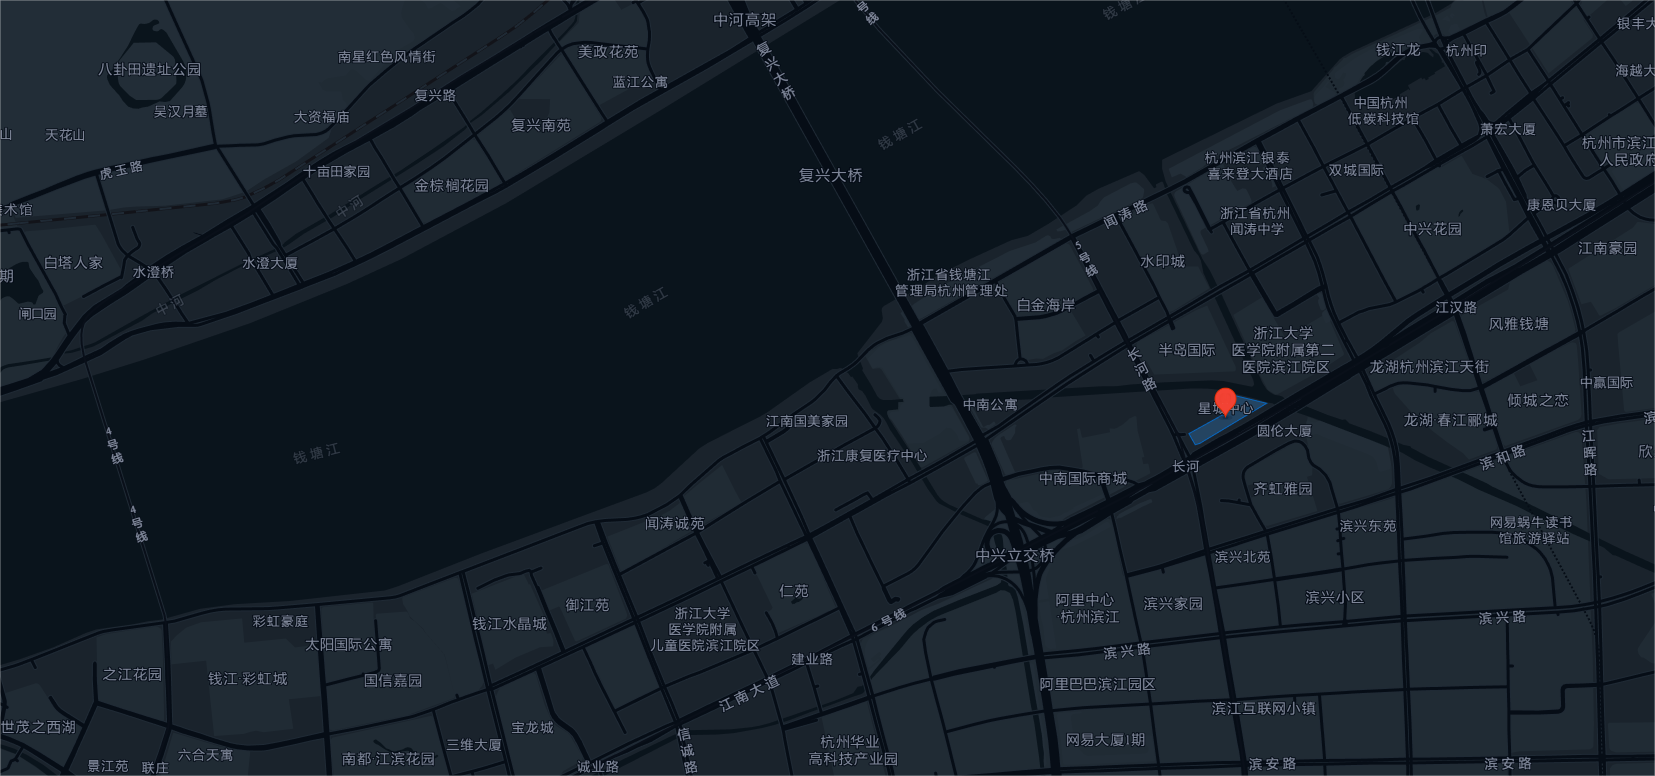
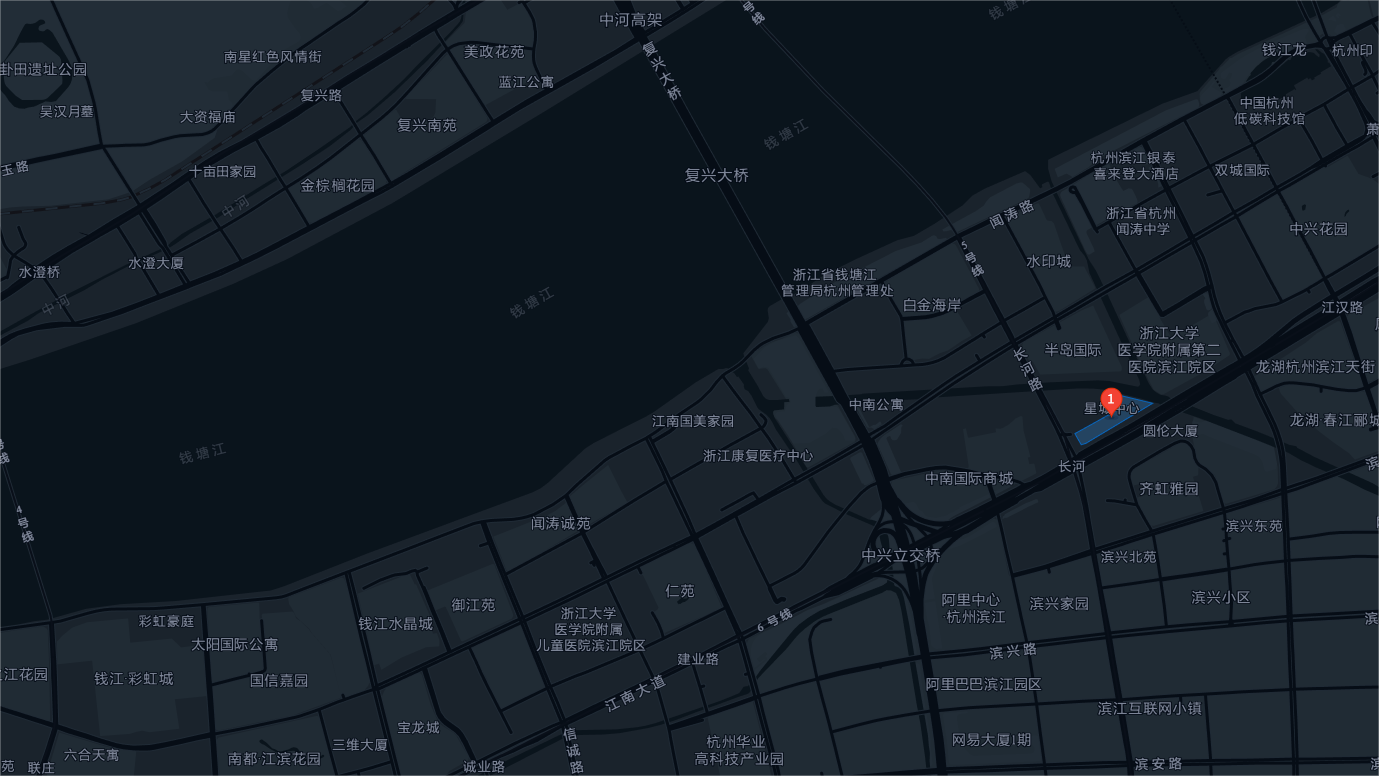
contact background png width 200% (unresolved)

diff --git a/src/components/ContactContent.vue b/src/components/ContactContent.vue
@@ -6,6 +6,11 @@
         <div class="text-white about-title">联系我们</div>
       </div>
 
+      <div class="location-tab">
+        <div class="text-white about-location-btn" @click="changeToLocation(1)">杭州</div>
+        <div class="text-white about-location-btn ml-4" @click="changeToLocation(2)">上海</div>
+      </div>
+
       <div class="all-container">
         <div class="location-container">
           <svg xmlns="http://www.w3.org/2000/svg" width="16" height="16" fill="currentColor"
@@ -15,7 +20,7 @@
           </svg>
 
           <div class="text-white text-left about-text">
-            浙江省杭州市滨江区星城中心B座1101
+            {{ default_location }}
           </div>
         </div>
 
@@ -27,7 +32,7 @@
           </svg>
 
           <div class="text-white text-left about-text ">
-            it@ingru.ai
+            {{ default_email }}
           </div>
         </div>
         <div class="telephone-container">
@@ -37,18 +42,65 @@
                   d="M1.885.511a1.745 1.745 0 0 1 2.61.163L6.29 2.98c.329.423.445.974.315 1.494l-.547 2.19a.68.68 0 0 0 .178.643l2.457 2.457a.68.68 0 0 0 .644.178l2.189-.547a1.75 1.75 0 0 1 1.494.315l2.306 1.794c.829.645.905 1.87.163 2.611l-1.034 1.034c-.74.74-1.846 1.065-2.877.702a18.6 18.6 0 0 1-7.01-4.42 18.6 18.6 0 0 1-4.42-7.009c-.362-1.03-.037-2.137.703-2.877z"/>
           </svg>
           <div class="text-white text-left about-text">
-            +86 17788886513<br>
-            +86 13918186286
+            <!--模板用于解析多个电话号码的换行符-->
+            <template v-for="line in default_telephone.split('\n')">
+              <div>{{ line }}</div>
+            </template>
           </div>
         </div>
       </div>
-
 
     </div>
   </div>
 </template>
 
-<script setup>
+<script>
+export default {
+  data() {
+    return {
+      companyLocationList: [
+        {
+          index: 1,
+          city: '杭州',
+          location: '浙江省杭州市滨江区星城中心B座1101',
+          email: 'it@ingru.ai',
+          telephone: '+86 17788886513\n+86 13918186286',
+          bk_map: "@/assets/img/cop_map_hz.png"
+        },
+        {index: 2, city: '上海', location: '', email: '', telephone: '', bk_map: "@/assets/img/cop_map_sh.png"}
+      ],
+
+      default_city: '杭州',
+      default_location: '浙江省杭州市滨江区星城中心B座1101',
+      default_email: 'it@ingru.ai',
+      default_telephone: '+86 17788886513\n+86 13918186286',
+      default_bk_map: '@/assets/img/cop_map_hz.png'
+    }
+  },
+  computed: {},
+  methods: {
+    changeToLocation(location) {
+      if (location === 1) {
+        this.default_city = '杭州'
+        this.default_location = '浙江省杭州市滨江区星城中心B座1101'
+        this.default_email = 'it@ingru.ai'
+        this.default_telephone = '+86 17788886513\n+86 13918186286'
+        this.default_bk_map = '@/assets/img/cop_map_hz.png'
+      } else if (location === 2) {
+        this.default_city = '上海'
+        this.default_location = '上海市青浦区双联路158号1幢11层S区005室'
+        this.default_email = 'it@ingru.ai'
+        this.default_telephone = '+86 18916939905'
+        this.default_bk_map = '@/assets/img/cop_map_sh.png'
+      }
+      const element = document.querySelector('.all-container');
+      element.classList.remove('animate-location'); // 先移除动画类名
+      setTimeout(() => {
+        element.classList.add('animate-location'); // 一段时间后重新添加动画类名
+      }, 2); // 这里设置一个小延迟，以确保类名移除成功
+    }
+  }
+}
 
 </script>
 
@@ -62,6 +114,51 @@
 
   display: flex;
   flex-direction: column;
+}
+
+.location-tab {
+  display: flex;
+  align-self: start;
+
+  margin: 0px 0px 40px 0px;
+//border: #000000 1px solid;
+}
+
+/* 虚拟类 */
+.animate-location {
+  animation: moveLocation 0.7s ease-in-out;
+}
+
+@keyframes moveLocation {
+  from {
+    opacity: 0;
+    transform: translateY(60px);
+  }
+  to {
+    opacity: 1;
+    transform: translateY(0px);
+  }
+}
+
+.about-location-btn {
+  font-size: 20px;
+  padding: 4px 10px 4px 10px;
+  border-radius: 2px;
+  cursor: pointer;
+  backdrop-filter: blur(0px);
+  border: rgba(255, 255, 255, 0.00) 2px solid;
+  transition: all 0.5s ease;
+}
+
+.about-location-btn:hover {
+  font-size: 20px;
+  background: rgba(231, 218, 218, 0.15);
+  padding: 4px 10px 4px 10px;
+  border-radius: 2px;
+  cursor: pointer;
+  backdrop-filter: blur(10px);
+  border: rgba(255, 255, 255, 1) 2px solid;
+  transition: all 0.5s ease;
 }
 
 .big-box {
@@ -78,6 +175,7 @@
 .big-title {
   align-self: start;
   text-align: left;
+  height: 200px;
 
 //border: #000000 1px solid;
 }
@@ -85,7 +183,7 @@
 .about-decoration {
   opacity: 0.3;
   font-weight: 700;
-  font-size: 12vh;
+  font-size: 10vh;
 //border: #000000 1px solid;
 }
 

diff --git a/src/views/HomeView.vue b/src/views/HomeView.vue
@@ -8,7 +8,7 @@
     <div id="footer" class="footer">
       <Footer></Footer>
     </div>
-    <div id="scroll-container" v-smooth-scrollbar class="scroll-container">
+    <div id="scroll-container" v-smooth-scrollbar="{ options: {damping: 0.05} }" class="scroll-container">
       <!--放在首页的视频-->
       <div id="#top" class="top-container">
         <DisplayVideo></DisplayVideo>
@@ -47,6 +47,13 @@ export default {
     Footer,
     DisplayVideo,
     MainMenu,
+  },
+  props: {
+    companyLocationImage: {
+      type: String,
+      required: true,
+      default: "@/assets/img/cop_map_hz.png"
+    }
   },
   data() {
     return {}
@@ -167,12 +174,12 @@ video { /* 控制DisplayVideo内部的video标签的工具 */
 }
 
 .contact-container {
-  background-image: url("@/assets/img/cop_map_hz.png");
+  background-image: url('@/assets/img/cop_map.png');
   background-size: cover;
   background-position: center;
   background-repeat: no-repeat;
   position: relative;
-  width: 100%;
+  width: 200%;
   height: 100vh;
 }
 </style>

diff --git a/src/components/AboutContent.vue b/src/components/AboutContent.vue
@@ -66,7 +66,7 @@ export default {
   font-weight: 700;
   font-size: 12vh;
 
-  animation: about-decoration-infinite-slide 7s linear infinite alternate;
+  animation: about-decoration-infinite-slide 3s linear infinite alternate;
   animation-delay: 0.3s;
 //border: #000000 1px solid;
 }
@@ -77,7 +77,7 @@ export default {
 
   bottom: 10vh;
 
-  animation: about-title-infinite-slide 8s linear infinite alternate;
+  animation: about-title-infinite-slide 2.5s linear infinite alternate;
   animation-delay: 0.5s;
 //border: #000000 1px solid;
 }
@@ -88,7 +88,7 @@ export default {
   font-size: 20px;
   max-width: 95%;
 
-  animation: infinite-slide 8s linear infinite alternate;
+  animation: infinite-slide 3s linear infinite alternate;
 //border: #000000 1px solid;
 }
 

diff --git a/src/components/ServiceContent.vue b/src/components/ServiceContent.vue
@@ -2,7 +2,7 @@
   <div class="mx-4 container">
     <div class="big-box">
       <div class="big-title">
-        <div class="text-white about-decoration">Service</div>
+        <div class="text-white about-decoration">SERVICE</div>
         <div class="text-white about-title">业务内容</div>
       </div>
       <div class="text-white text-left about-text">
